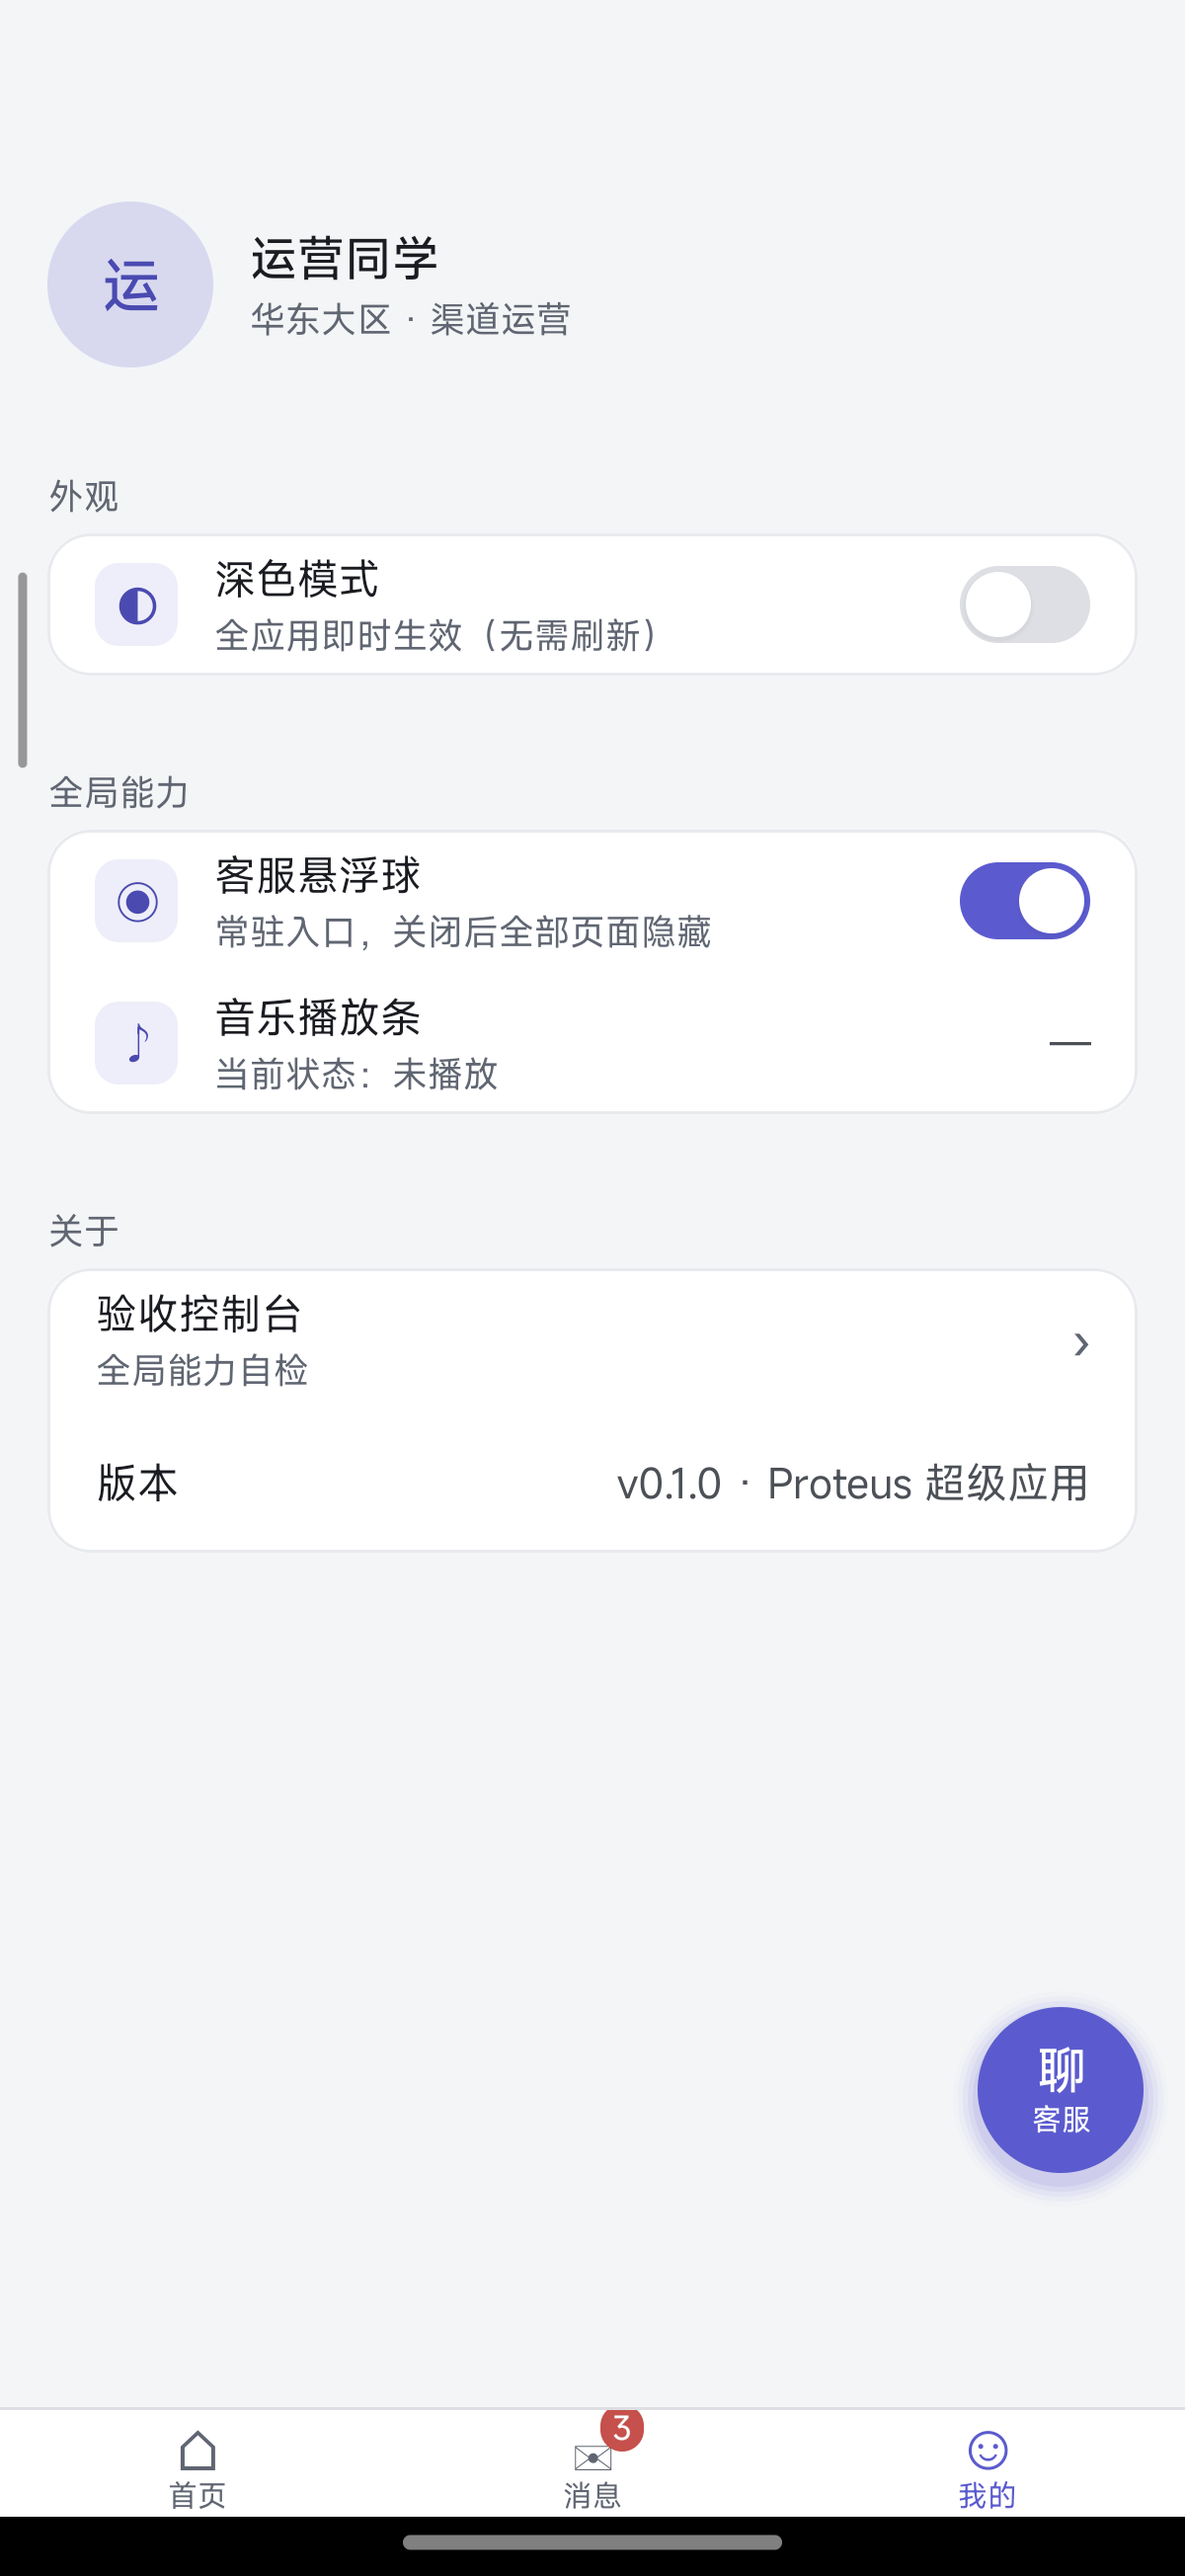
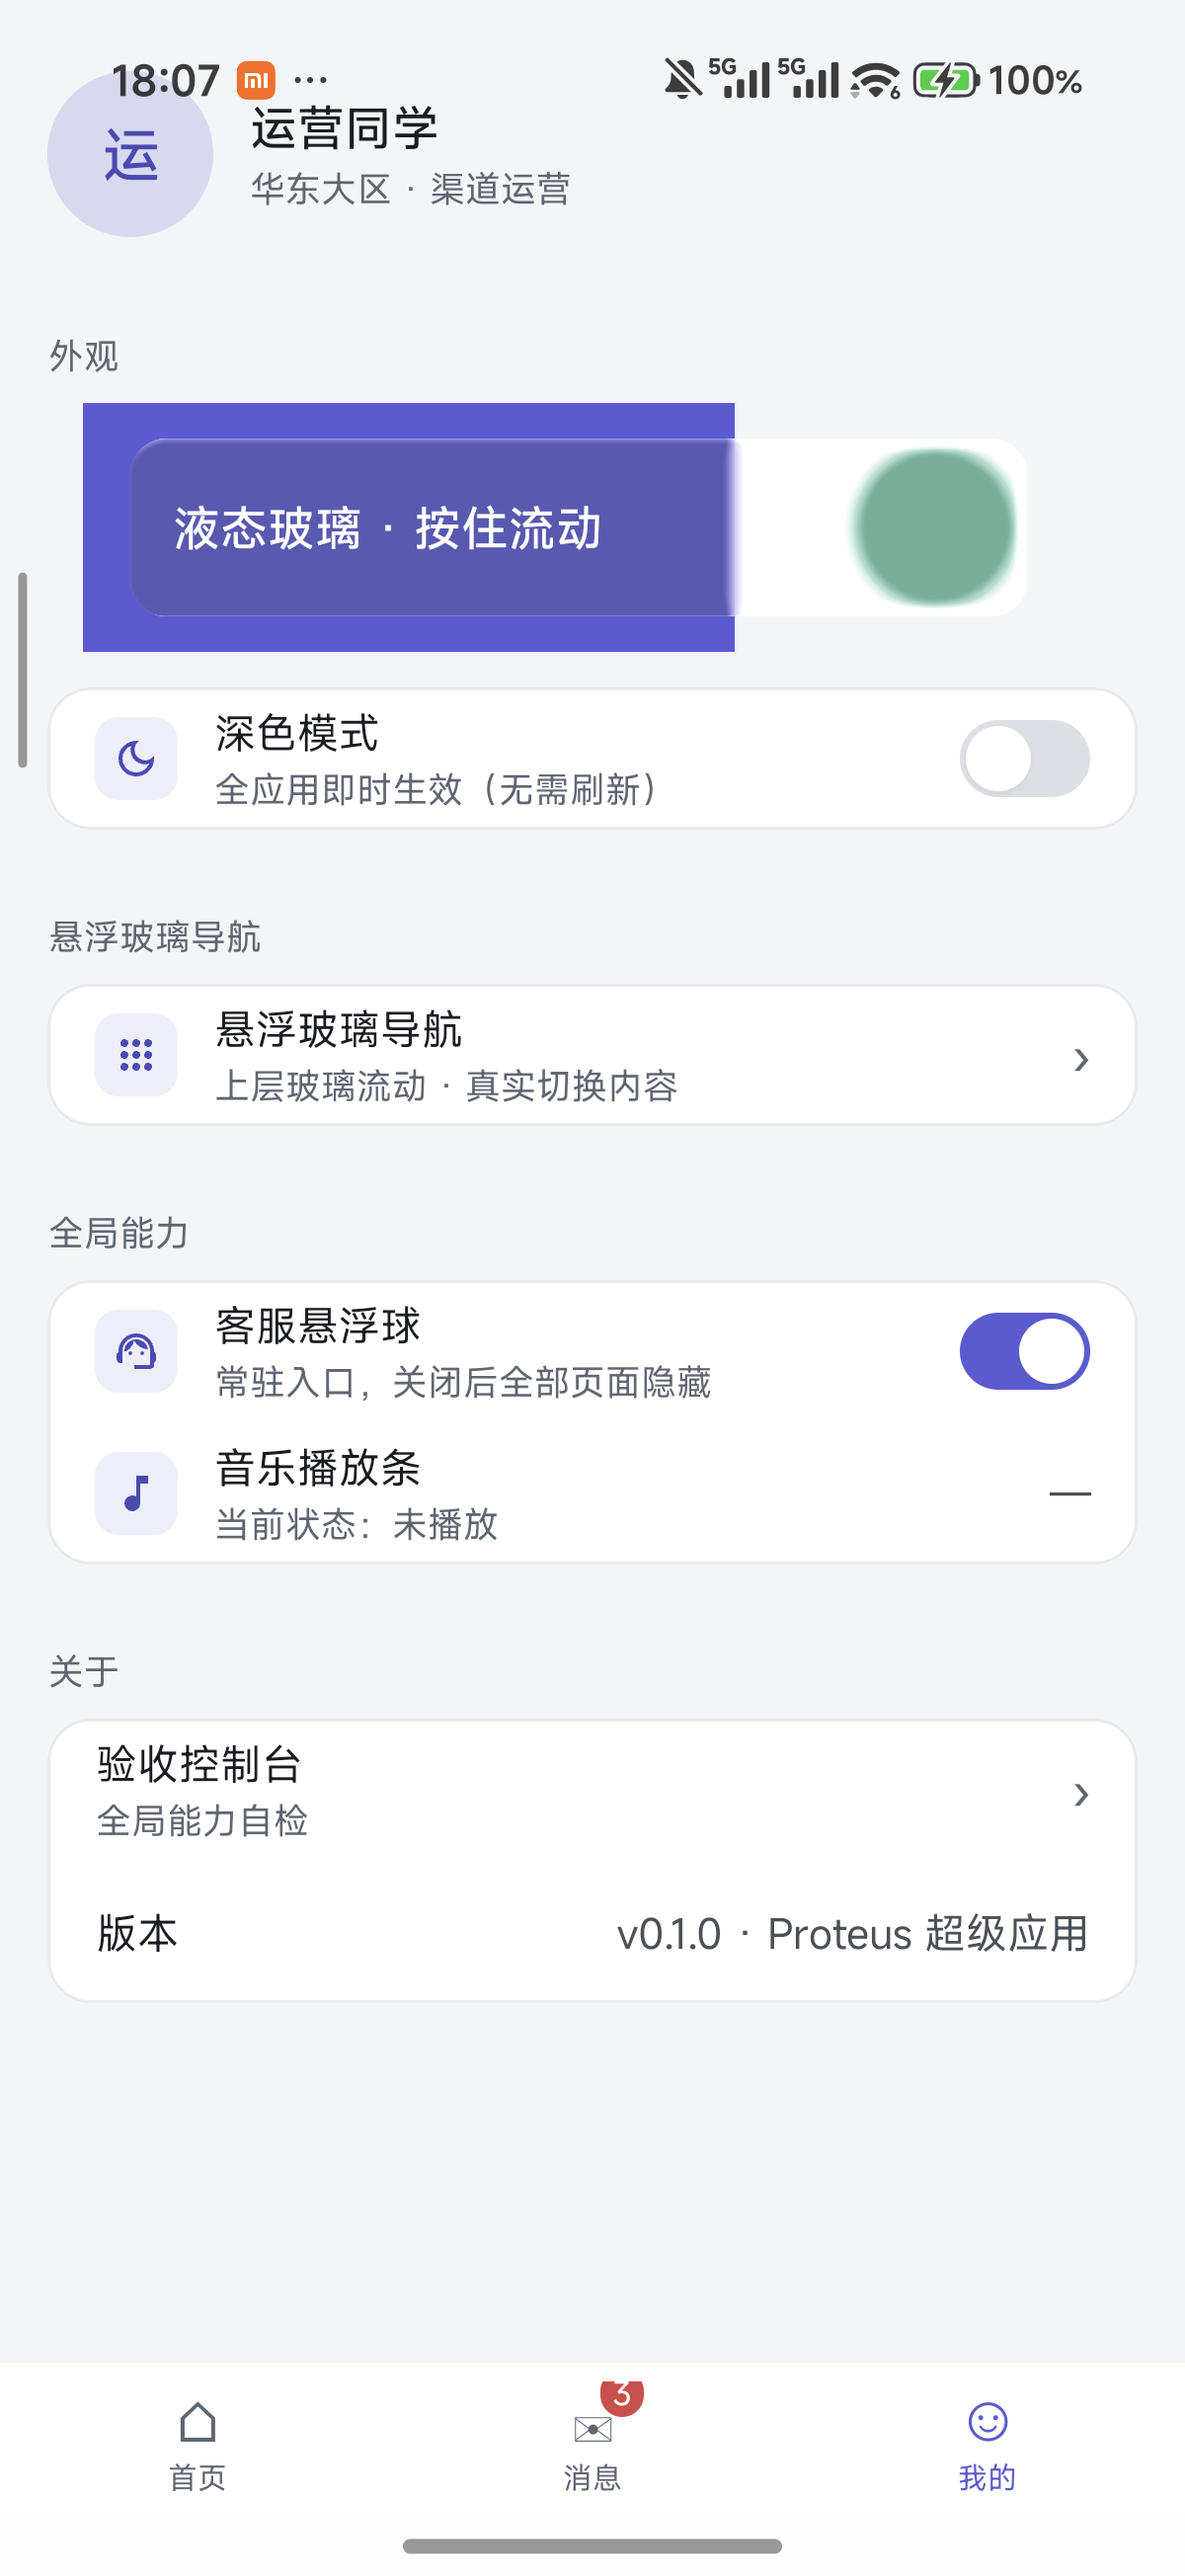
chore(hosts): 运行期接受面收口的生成物与真机产物归位（承接 5e2df3c8）
承接 5e2df3c8（A1/B1/B2 + B7 悬浮玻璃导航端到端）落地后遗留的工作区产物：
- examples/router/auto-routes.ts：gen-routes 的 tabItems 生成物（B 能力归 runtime——
  名字/文案/字形在生成期合并成最终值，App 三端宿主只渲染）
- entry-bench / entry-selfdraw / entry-host-runtime / entry-showcase：BUILD_ID
  推进到 ea431d0c-161013（与真机报告同批；报告据此断言"设备上跑的是本次构建"）
- hosts/*/results/superapp.{json,png} + superapp-launcher.{json,png}：A1/B7 真机
  运行产物（Android bundle_chars 633100→650288 = 含本次收口的产物；launcher 带
  tabItems 最终值）+ hosts/ios/results/dactyl-metrics.json

验证：check:host-tab-spec 绿（tab 栏能力归属 runtime 一实现 × 六壳零重实现）·
产物内容与 5e2df3c8 的契约一致（tabItems 字段形态齐全）。

diff --git a/examples/router/auto-routes.ts b/examples/router/auto-routes.ts
@@ -245,6 +245,18 @@ export const screenNames: string[] = ["builtin-components-demo","components-demo
 /** tab 根屏（meta.isTab）—— App 端 tab 语义（switchTab/reset）的合法目标 */
 export const tabNames: string[] = ["index","mine"]
 
+/** ★★tab 渲染最终值（App 三端宿主**只渲染**：名字/文案/字形在这里已合并完——B · 能力归 runtime） */
+export const tabItems: Array<{ name: string; label: string; glyph?: string; badge?: number }> = [
+  {
+    "name": "index",
+    "label": "首页"
+  },
+  {
+    "name": "mine",
+    "label": "我的"
+  }
+]
+
 // ─── ③ 类型提示：按路由名索引的参数类型表（来源：<route> 块 params 声明）───
 declare module '@proteus-vue/router/types' {
   interface RouteParamsByName {

diff --git a/hosts/shared/bridge/entry-host-runtime.ts b/hosts/shared/bridge/entry-host-runtime.ts
@@ -67,7 +67,7 @@ const g = globalThis as unknown as HostGlobals
 const HOST_ID = g.__PROTEUS_HOST_ID__ ?? 'quickjs-desktop'
 // ★构建标识（由 hosts/ios/bridge/inject-build-id.mjs **编译期替换**——与 entry-bench/entry-selfdraw
 //   同一机制；报告据此断言"设备上跑的是本次构建"，而不是靠运行时环境变量（那种是第二种形态））
-const BUILD_ID = '5fc511e6-124902'
+const BUILD_ID = '8b65b5e9-161013'
 const FRAME_DRIVER = g.__PROTEUS_HOST_FRAME_DRIVER__ ?? 'manual'
 
 // ══════════════════════════════════════════════════════════════════

diff --git a/hosts/ios/bridge/entry-bench.ts b/hosts/ios/bridge/entry-bench.ts
@@ -133,7 +133,7 @@ const BN = { snapshot: 'bench-final' }
 // ★构建标识：每次构建写入，用于**确凿判定**设备上跑的是哪份代码
 //   （踩坑：靠文件 mtime 判断"报告是否刷新"不可靠——新建目标文件的时间恒为"现在"；
 //    且我看不出设备实际执行的是旧 bundle，白跑一轮。有了这个字段就能一眼判定。）
-const BUILD_ID = '5fc511e6-124902'
+const BUILD_ID = '8b65b5e9-161013'
 const now = (): number => Date.now()
 /** 宽松解析（宿主返回可能是字符串或已是对象） */
 const safeParseAny = (s: any): any => {

diff --git a/hosts/ios/bridge/entry-selfdraw.ts b/hosts/ios/bridge/entry-selfdraw.ts
@@ -96,7 +96,7 @@ const BN = { snapshot: 'selfdraw-final' }
 
 // ★构建标识（每次构建由 hosts/ios/bridge/inject-build-id.mjs 注入；与 entry-bench 同机制）
 //   —— 「设备上跑的是哪份代码」必须可**一眼判定**（报告新鲜度判据的内容锚点）。
-const BUILD_ID = '5fc511e6-124902'
+const BUILD_ID = '8b65b5e9-161013'
 
 const VP = (globalThis as unknown as { __PROTEUS_VIEWPORT__?: { width: number; height: number } })
   .__PROTEUS_VIEWPORT__ ?? { width: 390, height: 844 }

diff --git a/hosts/shared/bridge/entry-showcase.ts b/hosts/shared/bridge/entry-showcase.ts
@@ -23,7 +23,7 @@ import type { ShowcaseAct, ShowcaseProgram } from './showcase-program'
 
 // ★构建标识（由 hosts/ios/bridge/inject-build-id.mjs **编译期替换**——与 entry-bench/entry-selfdraw
 //   同一机制；报告据此断言"设备上跑的是本次构建"）
-const BUILD_ID = '5fc511e6-124902'
+const BUILD_ID = '8b65b5e9-161013'
 
 /** 帧内视图参数（建树时定，后续幕复用） */
 interface ViewGeom {
